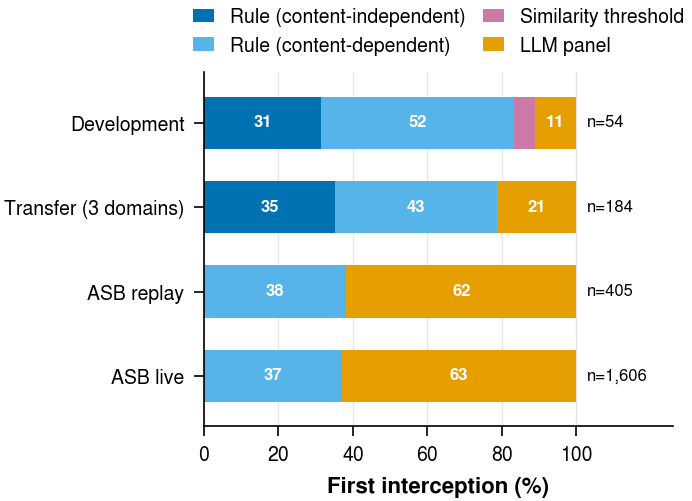
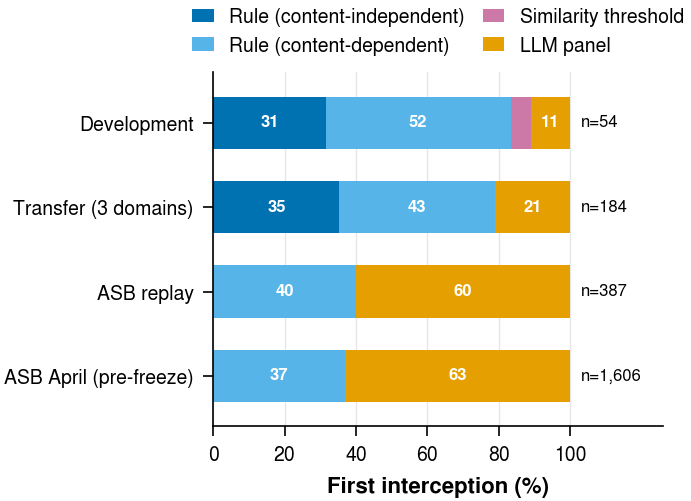
review: figure takeaways and ASB tiers under the local panel
Tiers figure scores the ASB replay's panel rounds under Local4; takeaways no
longer claim what the re-adjudicated numbers do not support; carry-over
takeaway corrected (first benign incident is at the isolated level).

diff --git a/analysis/make_figures.py b/analysis/make_figures.py
@@ -288,9 +288,9 @@ def fig_judgment_boundary(trials: list[dict], outdir: Path) -> tuple[Path, dict]
     meta = {
         "name": "judgment_boundary",
         "file": path.name,
-        "takeaway": ("Never judging is the safest and the least usable; judging everything "
-                     "is neither safe nor cheap; DEFER sits near the safety of NoJudge at "
-                     "the usability of JudgeOnly."),
+        "takeaway": ("Never judging is the safest and escalates half of the legitimate work; "
+                     "the judges without the rules barely beat no checks; DEFER sits between "
+                     "them, at a cost set mostly by its rules."),
         "data_sources": ["results/eval_attacks/all_trials.csv",
                          f"logs/{DEV_DOMAIN}_eval_attacks_{DEV_GROUP}/*.jsonl"],
         "n": {
@@ -358,8 +358,8 @@ def tier_shares(mechs: list[str]) -> tuple[dict[str, float], int]:
 # --------------------------------------------------------------------- #
 #  F2. Who stops the attack: first interception by tier
 # --------------------------------------------------------------------- #
-# Takeaway: deterministic checks decide three quarters of the interceptions on
-# policy and structure attacks, and about a third on semantic third-party ones.
+# Takeaway: deterministic checks decide most interceptions on policy and
+# structure attacks, and well under half on semantic third-party ones.
 def fig_interception_tiers(trials: list[dict], outdir: Path) -> tuple[Path, dict]:
     import matplotlib.pyplot as plt
     from matplotlib.patches import Patch
@@ -376,12 +376,21 @@ def fig_interception_tiers(trials: list[dict], outdir: Path) -> tuple[Path, dict
     for g in ("A", "C", "D", "E"):
         live += asb_mechanisms(legacy / f"e2e_validator_group_{g}" / "general" / "results.csv")
 
+    replay = asb_mechanisms(asb_root / "e2e_validator_group_q235_div4_div4" / "general" / "results.csv")
+    if LOCAL4:
+        # the logged replay's panel rejected every round it saw; under Local4
+        # the rounds it approves are let through and leave the blocked set
+        from analysis.replay_panels import decide, load_all_votes, load_rounds, panel_for
+        V, R = load_all_votes(), load_rounds()
+        mem, q = panel_for("Local4", "asb")
+        let = sum(bool(decide(r["key"], mem, q, V)) for r in R["asb_replay405"])
+        panel = [m for m in replay if tiers.tier_of(m) == "panel"]
+        replay = [m for m in replay if tiers.tier_of(m) != "panel"] + panel[:len(panel) - let]
     sources = [
         ("Development", blocked_mechs({DEV_DOMAIN})),
         ("Transfer (3 domains)", blocked_mechs({"finance", "healthcare", "legal"})),
-        ("ASB replay", asb_mechanisms(
-            asb_root / "e2e_validator_group_q235_div4_div4" / "general" / "results.csv")),
-        ("ASB live", live),
+        ("ASB replay", replay),
+        ("ASB April (pre-freeze)" if LOCAL4 else "ASB live", live),
     ]
 
     fig, ax = plt.subplots(figsize=(fs.WIDTH_1COL, 2.3))
@@ -419,9 +428,9 @@ def fig_interception_tiers(trials: list[dict], outdir: Path) -> tuple[Path, dict
     path = fs.save(fig, "interception_tiers", outdir, fs.WIDTH_1COL)
     meta = {
         "name": "interception_tiers", "file": path.name,
-        "takeaway": ("Deterministic checks decide about three quarters of the interceptions "
-                     "on policy and structure attacks, and about a third on the semantic "
-                     "third-party benchmark."),
+        "takeaway": ("Deterministic checks decide most interceptions on policy and structure "
+                     "attacks, and well under half on the semantic third-party benchmark, "
+                     "there only through content-dependent rules."),
         "data_sources": ["results/eval_attacks/all_trials.csv",
                          "results/asb/e2e_validator_group_q235_div4_div4/general/results.csv",
                          "results_legacy_v1/asb/e2e_validator_group_{A,C,D,E}/general/results.csv"],
@@ -517,9 +526,9 @@ def fig_ap_heatmap(trials: list[dict], outdir: Path) -> tuple[Path, dict]:
     path = fs.save(fig, "ap_heatmap", outdir, fs.WIDTH_2COL)
     meta = {
         "name": "ap_heatmap", "file": path.name,
-        "takeaway": ("JudgeOnly leaves whole attack paths red that DEFER clears, and on "
-                     "several it scores worse than no checks at all; what survives DEFER is "
-                     "a short list of four paths, none above roughly 22%."),
+        "takeaway": ("JudgeOnly leaves whole attack paths red that DEFER clears; what "
+                     "survives DEFER is concentrated on a few paths, led by persuasion of "
+                     "the judges through the proposal's rationale (AP-10)."),
         "data_sources": ["results/eval_attacks/all_trials.csv"],
         "n": {"variants": {a: nvar[a] for a in ordered if a != SEP},
               "harness_proposed": harness,
@@ -1188,8 +1197,9 @@ def fig_transfer(trials: list[dict], outdir: Path) -> tuple[Path, dict]:
 # --------------------------------------------------------------------- #
 #  F10. State carry-over
 # --------------------------------------------------------------------- #
-# Takeaway: the pipeline is already saturated at the first benign incident
-# after the attack sequence; state has to expire.
+# Takeaway: the first benign incident after the attacks is at the isolated
+# level; from the second on, benign incidents deny each other through state
+# that never expires.
 def fig_state_carryover(trials: list[dict], outdir: Path) -> tuple[Path, dict]:
     import matplotlib.pyplot as plt
 
@@ -1246,9 +1256,9 @@ def fig_state_carryover(trials: list[dict], outdir: Path) -> tuple[Path, dict]:
     path = fs.save(fig, "state_carryover", outdir, fs.WIDTH_1COL)
     meta = {
         "name": "state_carryover", "file": path.name,
-        "takeaway": ("With state carried across incidents the pipeline is already saturated "
-                     "at the first benign incident after the attacks and never recovers, so "
-                     "accumulated state has to expire."),
+        "takeaway": ("With state carried across incidents the first benign incident after the "
+                     "attacks is at the isolated level; from the second on, legitimate incidents "
+                     "deny each other through replay and ledger state that never expires."),
         "data_sources": [f"logs/*_eval_attacks_{pers_group}/*.jsonl",
                          "results/eval_attacks/all_trials.csv"],
         "n": {"isolated_mean_denials": round(iso_mean, 2),
